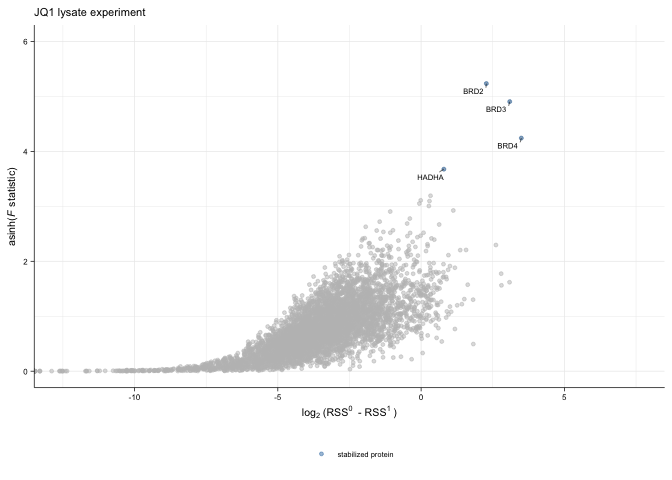
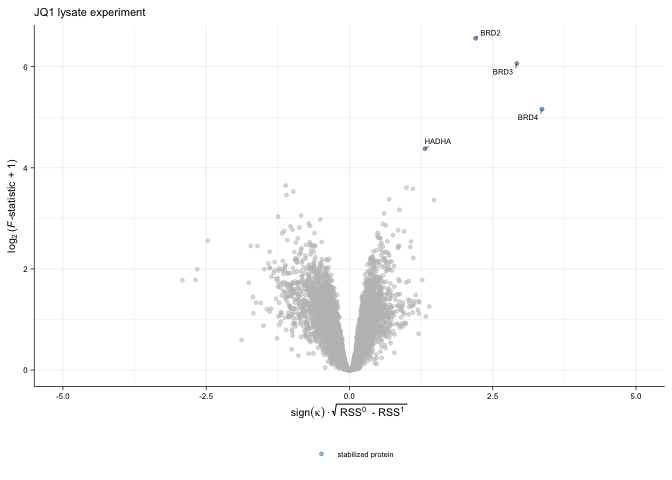
updated jq1 analysis

diff --git a/JQ1_THP1_lysate_2DTPP_Savitski_et_al_2018/JQ1_dataset_re-analysis.md b/JQ1_THP1_lysate_2DTPP_Savitski_et_al_2018/JQ1_dataset_re-analysis.md
@@ -1,6 +1,6 @@
 Re-analysis of JQ1 lysate dataset by Savitski et al, 2018
 ================
-25 June, 2020
+17 August, 2020
 
 # Step-by-step walk through the `TPP2D` analysis
 
@@ -126,7 +126,7 @@ jq1_params_df <- getModelParamsDf(jq1_lys_df, maxit = 500)
 saveRDS(jq1_params_df, file = "../pre_run_data/jq1_params_df.rds")
 ```
 
-Compute *F* statistics
+Compute *F*-statistics
 
 ``` r
 jq1_fstat_df <- computeFStatFromParams(jq1_params_df)
@@ -161,7 +161,7 @@ ggplot(jq1_fdr_df %>%
            filter(dataset == "true") %>% 
            mutate(group = case_when(slopeH1 > 0 ~ "stabilized protein",
                                     slopeH1 < 0 ~ "destabilized protein")), 
-       aes(log2(rssH0 - rssH1), asinh(F_statistic))) +
+       aes(sign(slopeH1)*sqrt(rssH0 - rssH1), log2(F_statistic + 1))) +
   geom_point(color = "gray", alpha = 0.5, size = 1) + 
   geom_point(aes(color = group), alpha = 0.5, 
              size = 1,
@@ -174,11 +174,11 @@ ggplot(jq1_fdr_df %>%
     data = jq1_hits_df, 
     size = 2, segment.size = 0.2, min.segment.length = unit(2, "pt")) +
   scale_color_manual("", values = c("steelblue", "orange")) +
-  labs(x = expression('log'[2]~'(RSS'^0~' - RSS'^1~')'),
-       y = expression('asinh('*italic(F)*' statistic)')) +
+  labs(x = bquote(sign(kappa) %.% sqrt(~'RSS'^0~' - RSS'^1~'')),
+       y = expression('log'[2]~'('*italic(F)*'-statistic + 1)')) +
   ggtitle("JQ1 lysate experiment") +
-  coord_cartesian(xlim = c(-12.5, 7.5), 
-                  ylim = c(0, 6)) +
+  coord_cartesian(xlim = c(-5, 5), 
+                  ylim = c(0, 6.5)) +
   theme_paper +
   theme(legend.position = "bottom")
 ```
@@ -190,7 +190,7 @@ ggplot(jq1_fdr_df %>%
            filter(dataset == "true") %>% 
            mutate(group = case_when(slopeH1 > 0 ~ "stabilized protein",
                                     slopeH1 < 0 ~ "destabilized protein")), 
-       aes(log2(rssH0 - rssH1), asinh(F_statistic))) +
+       aes(sign(slopeH1)*sqrt(rssH0 - rssH1), log2(F_statistic + 1))) +
   geom_point(color = "gray", alpha = 0.5, size = 1) + 
   geom_point(aes(color = group), alpha = 0.5, 
              size = 1,
@@ -204,10 +204,10 @@ ggplot(jq1_fdr_df %>%
     size = 2, segment.size = 0.2, min.segment.length = unit(2, "pt")) +
   scale_color_manual("", values = c("steelblue", "orange")) +
   facet_wrap(~nObsRound, scales = "free", ncol = 5) +
-  labs(x = expression('log'[2]~'(RSS'^0~' - RSS'^1~')'),
-       y = expression('asinh('*italic(F)*' statistic)')) +
+  labs(x = bquote(sign(kappa) %.% sqrt(~'RSS'^0~' - RSS'^1~'')),
+       y = expression('log'[2]~'('*italic(F)*'-statistic + 1)')) +
   ggtitle("JQ1 lysate experiment") +
-  coord_cartesian(xlim = c(-12.5, 7.5)) +
+  coord_cartesian(xlim = c(-5, 5), ylim = c(0, 6.5)) +
   theme_paper +
   theme(legend.position = "bottom")
 ```
@@ -296,7 +296,7 @@ sessionInfo()
     ## [1] stats     graphics  grDevices utils     datasets  methods   base     
     ## 
     ## other attached packages:
-    ## [1] gplots_3.0.3  readxl_1.3.1  ggplot2_3.3.1 tidyr_1.1.0   TPP2D_1.5.5  
+    ## [1] gplots_3.0.3  readxl_1.3.1  ggplot2_3.3.2 tidyr_1.1.0   TPP2D_1.5.7  
     ## [6] dplyr_1.0.0  
     ## 
     ## loaded via a namespace (and not attached):
